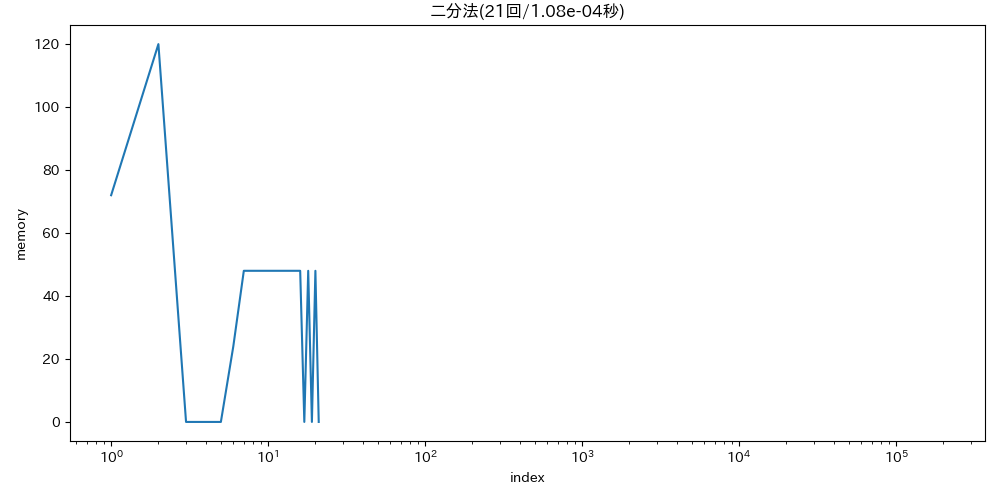
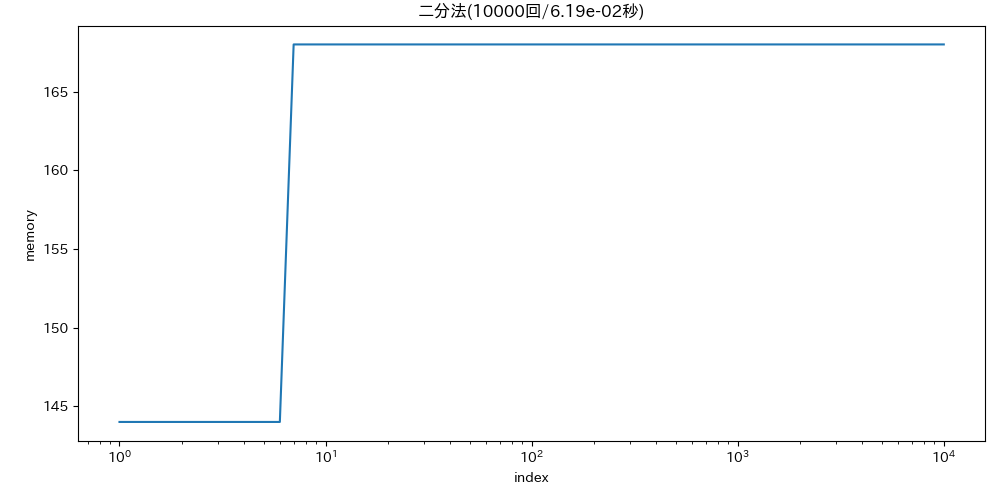
メモリ使用量を計測

diff --git a/FindPI/__main__.py b/FindPI/__main__.py
@@ -6,7 +6,8 @@ from .evaluate import Comparer, HLine, Runner
 # 条件
 DIGITS = 5
 THRESHOLD = 1e-5
-CONDITION = conditions.DigitsAndDistance(digits=DIGITS, threshold=THRESHOLD)
+CONDITION = conditions.Times(times=10000)
+# CONDITION = conditions.DigitsAndDistance(digits=DIGITS, threshold=THRESHOLD)
 
 
 class FindPIRunner(Runner):
@@ -21,7 +22,7 @@ if __name__ == "__main__":
         funcs.outcribed,
         funcs.montecarlo,
         funcs.leibniz,
-        funcs.chudnovsky,
+        # funcs.chudnovsky,
         funcs.quadrature,
         funcs.dichotomy,
     ]

diff --git a/FindPI/evaluate/models.py b/FindPI/evaluate/models.py
@@ -59,7 +59,7 @@ class Runner:
                 index_list.append(index)
                 value_list.append(value)
                 time_list.append(current_time)
-                memory_list.append(current)
+                memory_list.append(peak)
                 index += 1
 
             self.results.append(
